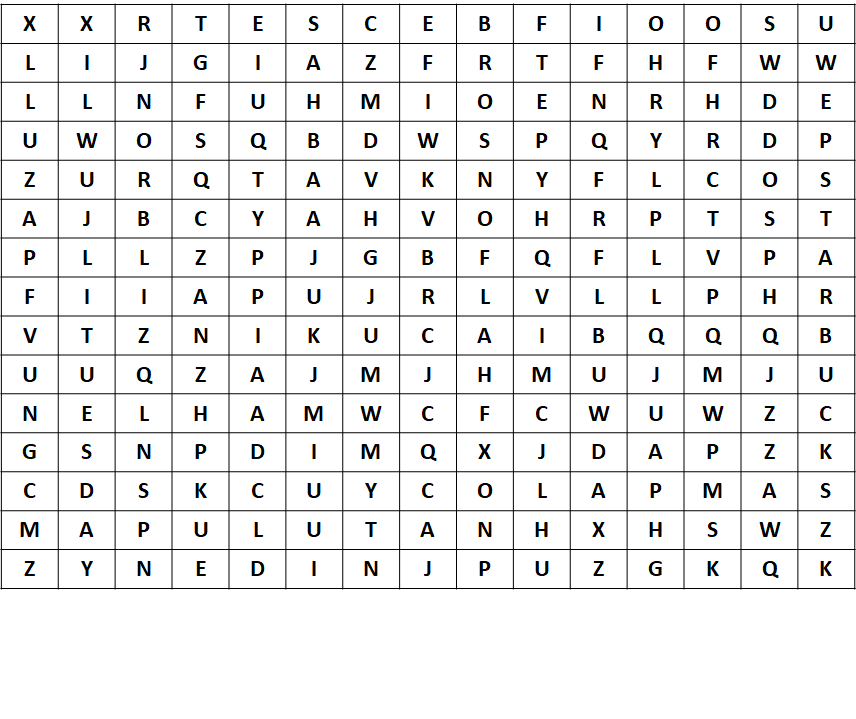
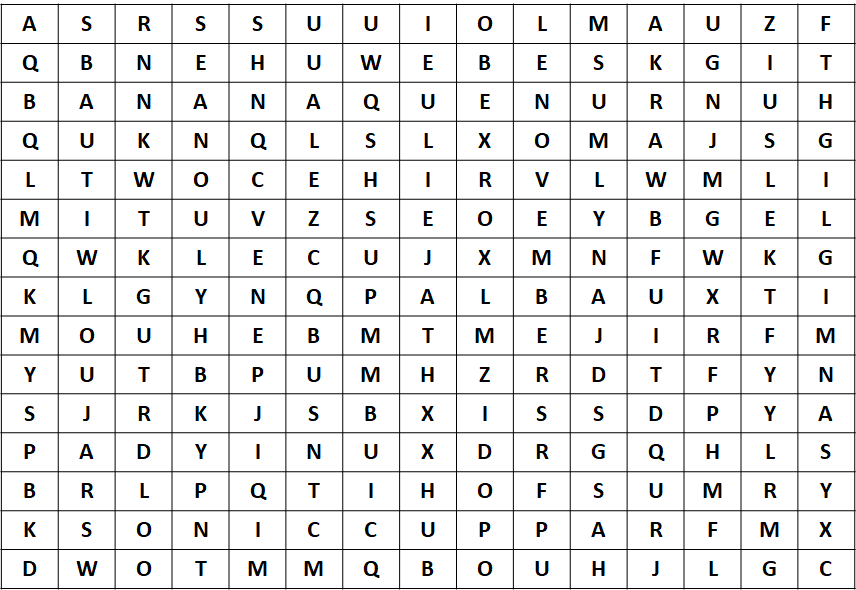
Changed exam for COM221

diff --git a/final_exam/FinalExam.java b/final_exam/FinalExam.java
@@ -4,136 +4,130 @@ public class FinalExam {
         // Print the words in their given pattern.
 
         char[][] array = {
-                { 'X', 'X', 'R', 'T', 'E', 'S', 'C', 'E', 'B', 'F', 'I', 'O', 'O', 'S', 'U' },
-                { 'L', 'I', 'J', 'G', 'I', 'A', 'Z', 'F', 'R', 'T', 'F', 'H', 'F', 'W', 'W' },
-                { 'L', 'L', 'N', 'F', 'U', 'H', 'M', 'I', 'O', 'E', 'N', 'R', 'H', 'D', 'E' },
-                { 'U', 'W', 'O', 'S', 'Q', 'B', 'D', 'W', 'S', 'P', 'Q', 'Y', 'R', 'D', 'P' },
-                { 'Z', 'U', 'R', 'Q', 'T', 'A', 'V', 'K', 'N', 'Y', 'F', 'L', 'C', 'O', 'S' },
-                { 'A', 'J', 'B', 'C', 'Y', 'A', 'H', 'V', 'O', 'H', 'R', 'P', 'T', 'S', 'T' },
-                { 'P', 'L', 'L', 'Z', 'P', 'J', 'G', 'B', 'F', 'Q', 'F', 'L', 'V', 'P', 'A' },
-                { 'F', 'I', 'I', 'A', 'P', 'U', 'J', 'R', 'L', 'V', 'L', 'L', 'P', 'H', 'R' },
-                { 'V', 'T', 'Z', 'N', 'I', 'K', 'U', 'C', 'A', 'I', 'B', 'Q', 'Q', 'Q', 'B' },
-                { 'U', 'U', 'Q', 'Z', 'A', 'J', 'M', 'J', 'H', 'M', 'U', 'J', 'M', 'J', 'U' },
-                { 'N', 'E', 'L', 'H', 'A', 'M', 'W', 'C', 'F', 'C', 'W', 'U', 'W', 'Z', 'C' },
-                { 'G', 'S', 'N', 'P', 'D', 'I', 'M', 'Q', 'X', 'J', 'D', 'A', 'P', 'Z', 'K' },
-                { 'C', 'D', 'S', 'K', 'C', 'U', 'Y', 'C', 'O', 'L', 'A', 'P', 'M', 'A', 'S' },
-                { 'M', 'A', 'P', 'U', 'L', 'U', 'T', 'A', 'N', 'H', 'X', 'H', 'S', 'W', 'Z' },
-                { 'Z', 'Y', 'N', 'E', 'D', 'I', 'N', 'J', 'P', 'U', 'Z', 'G', 'K', 'Q', 'K' },
+                { 'A', 'S', 'R', 'S', 'S', 'U', 'U', 'I', 'O', 'L', 'M', 'A', 'U', 'Z', 'F' },
+                { 'Q', 'B', 'N', 'E', 'H', 'U', 'W', 'E', 'B', 'E', 'S', 'K', 'G', 'I', 'T' },
+                { 'B', 'A', 'N', 'A', 'N', 'A', 'Q', 'U', 'E', 'N', 'U', 'R', 'N', 'U', 'H' },
+                { 'Q', 'U', 'K', 'N', 'Q', 'L', 'S', 'L', 'X', 'O', 'M', 'A', 'J', 'S', 'G' },
+                { 'L', 'T', 'W', 'O', 'C', 'E', 'H', 'I', 'R', 'V', 'L', 'W', 'M', 'L', 'I' },
+                { 'M', 'I', 'T', 'U', 'V', 'Z', 'S', 'E', 'O', 'E', 'Y', 'B', 'G', 'E', 'L' },
+                { 'Q', 'W', 'K', 'L', 'E', 'C', 'U', 'J', 'X', 'M', 'N', 'F', 'W', 'K', 'G' },
+                { 'K', 'L', 'G', 'Y', 'N', 'Q', 'P', 'A', 'L', 'B', 'A', 'U', 'X', 'T', 'I' },
+                { 'M', 'O', 'U', 'H', 'E', 'B', 'M', 'T', 'M', 'E', 'J', 'I', 'R', 'F', 'M' },
+                { 'Y', 'U', 'T', 'B', 'P', 'U', 'M', 'H', 'Z', 'R', 'D', 'T', 'F', 'Y', 'N' },
+                { 'S', 'J', 'R', 'K', 'J', 'S', 'B', 'X', 'I', 'S', 'S', 'D', 'P', 'Y', 'A' },
+                { 'P', 'A', 'D', 'Y', 'I', 'N', 'U', 'X', 'D', 'R', 'G', 'Q', 'H', 'L', 'S' },
+                { 'B', 'R', 'L', 'P', 'Q', 'T', 'I', 'H', 'O', 'F', 'S', 'U', 'M', 'R', 'Y' },
+                { 'K', 'S', 'O', 'N', 'I', 'C', 'C', 'U', 'P', 'P', 'A', 'R', 'F', 'M', 'X' },
+                { 'D', 'W', 'O', 'T', 'M', 'M', 'Q', 'B', 'O', 'U', 'H', 'J', 'L', 'G', 'C' }
         };
 
-        // =============================================================
-        // ALFONSO - (10 points)
-        System.out.println(" ");
-        System.out.println("1. ALFONSO ");
+        for (int i = 0; i < array.length; i++) {
+            System.out.println(" ");
+            for (int j = 0; j < array.length; j++) {
+                System.out.print(array[i][j] + " ");
+            }
+        }
 
         // =============================================================
-        // INSTAGRAM - (10 points)
+        // BANANAQUE - (10 points)
         System.out.println(" ");
-        System.out.println("2. INSTAGRAM ");
+        System.out.println("1. BANANAQUE ");
 
         // =============================================================
-        // PULUTAN - (10 points)
+        // FRAPPUCCINO - (10 points)
         System.out.println(" ");
-        System.out.println("3. PULUTAN ");
+        System.out.println("2. FRAPPUCCINO ");
 
         // =============================================================
-        // TUESDAY - (10 points)
+        // NOVEMBER - (10 points)
         System.out.println(" ");
-        System.out.println("4. TUESDAY ");
+        System.out.println("3. NOVEMBER ");
 
         // =============================================================
-        // CHILLTOP - (10 points)
+        // TIKTOK - (10 points)
         System.out.println(" ");
-        System.out.println("5. CHILLTOP ");
+        System.out.println("4. TIKTOK ");
 
         // =============================================================
-        // MANILA - (10 points)
+        // BARBEQUE - (10 points)
         System.out.println(" ");
-        System.out.println("6. MANILA ");
+        System.out.println("5. BARBEQUE ");
 
         // =============================================================
-        // SAMPALOC - (10 points)
+        // HUWEBES - (10 points)
         System.out.println(" ");
-        System.out.println("7. SAMPALOC ");
+        System.out.println("6. HUWEBES ");
 
         // =============================================================
-        // FRIDAY - (10 points)
+        // SANMIGLIGHT - (10 points)
         System.out.println(" ");
-        System.out.println("8. FRIDAY ");
+        System.out.println("7. SANMIGLIGHT ");
 
         // =============================================================
-        // PIZZA - (10 points)
+        // FINALEXAM - (10 points)
         System.out.println(" ");
-        System.out.println("9. PIZZA ");
+        System.out.println("8. FINALEXAM ");
 
         // =============================================================
-        // STARBUCKS - (10 points)
+        // LUNES - (10 points)
         System.out.println(" ");
-        System.out.println("10. STARBUCKS ");
+        System.out.println("9. LUNES ");
+
+        // =============================================================
+        // SIOMAI - (10 points)
+        System.out.println(" ");
+        System.out.println("10. SIOMAI ");
 
         // =============================================================
 
         // BONUS (PRIZE AWAITS!)
         System.out.println(" ");
-        System.out.println("11. EVERYBODY HAS A PRICE! ");
+        System.out.println("11. Elizer needs your help!");
 
-        // Let s be a string of lowercase Latin letters. Its price is the sum of the
-        // indices of letters (an integer between 1 and 26) that are included in it. For
-        // example, the price of the string abca is 1 + 2 + 3 + 1 = 7.
+        // Elizer loves to watch professional basketball. He is an avid fan of a certain
+        // team which he follows on social media.
+        // One day, he saw a post where his favorite team revealed their brand new home
+        // and guest uniforms for the upcoming season.
 
-        // The string w and the integer p are given. Remove the minimal number of
-        // letters from w so that its price becomes less than or equal to p and print
-        // the resulting string. Note that the resulting string may be empty. You can
-        // delete arbitrary letters, they do not have to go in a row. If the price of a
-        // given string w is less than or equal to p, then nothing needs to be deleted
-        // and w must be output.
+        // The home and guest uniform are of different color.
+        // All basketball teams have a home uniform which they wear if they are on their
+        // home arena. On the other hand, the guest uniform is worn by teams who are
+        // visiting their opponent's arena.
 
-        // Note that when you delete a letter from w, the order of the remaining letters
-        // is preserved. For example, if you delete the letter e from the string test,
-        // you get tst.
+        // Sometimes, the color of the guest uniform of the visiting team can be the
+        // same color with the uniform of the home team. If this happens, the home
+        // team will put on their guest uniform so that they would be different.
 
+        // There are n teams taking part in the regular season. Elizer asked himself how
+        // many times a home team will have to wear their guest uniform?
+
+        // The regular season consists of n * ( n - 1) games. Each team will have a home
+        // game and away game.
+        // The color of the uniforms are represented by integers. No two distinct colors
+        // can have the same number.
+        // Help Elizer find the answer to his question!
+
+        // Requirements
+        // 1. Ask for the number of n teams participating.
+        // 2. Ask for a pair of numbers, the home and away colors for each
+        // participating team.
+        // 3. The answer should be the number of times a home team will wear their away
+        // uniform.
+
+        // =============================================================
+        // Example:
         // Input:
-        // Each case consists of two lines.
+        // 3
+        // 1 2
+        // 2 4
+        // 3 4
 
-        // The first of them is the string w, it is non-empty and consists of lowercase
-        // Latin letters.
+        // Answer
+        // 1
 
-        // The second line contains an integer p (1 ≤ p ≤ 5200000).
-
-        // Output:
-        // Output exactly t rows, the i-th of them should contain the answer to the i-th
-        // set of input data. Print the longest string that is obtained from w by
-        // deleting letters such that its price is less or equal to p. If there are
-        // several answers, then output any of them.
-
-        // Note that the empty string — is one of the possible answers. In this case,
-        // just output an empty string.
-
-        // ================================================================================
-
-        // Example 1
-        // Input:
-        // abca
-        // 2
-
-        // Output:
-        // aa
-
-        // Example 2
-        // Input:
-        // abca
-        // 6
-
-        // Output:
-        // abc
-        
-        // Example 3
-        // Input:
-        // elizer
-        // 50
-
-        // Output:
-        // elier
+        // Note: In this example, the season will have a total of six games.
+        // There is game where team 2 will have to wear their guest uniform if team 1
+        // visits their arena.
 
     }
 }
